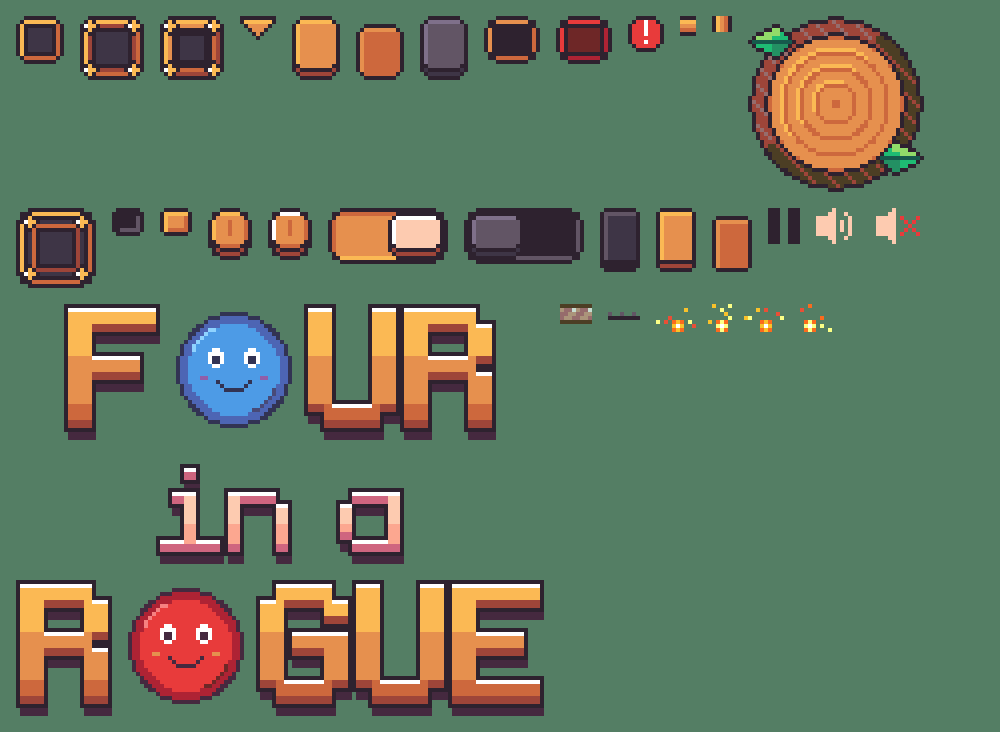
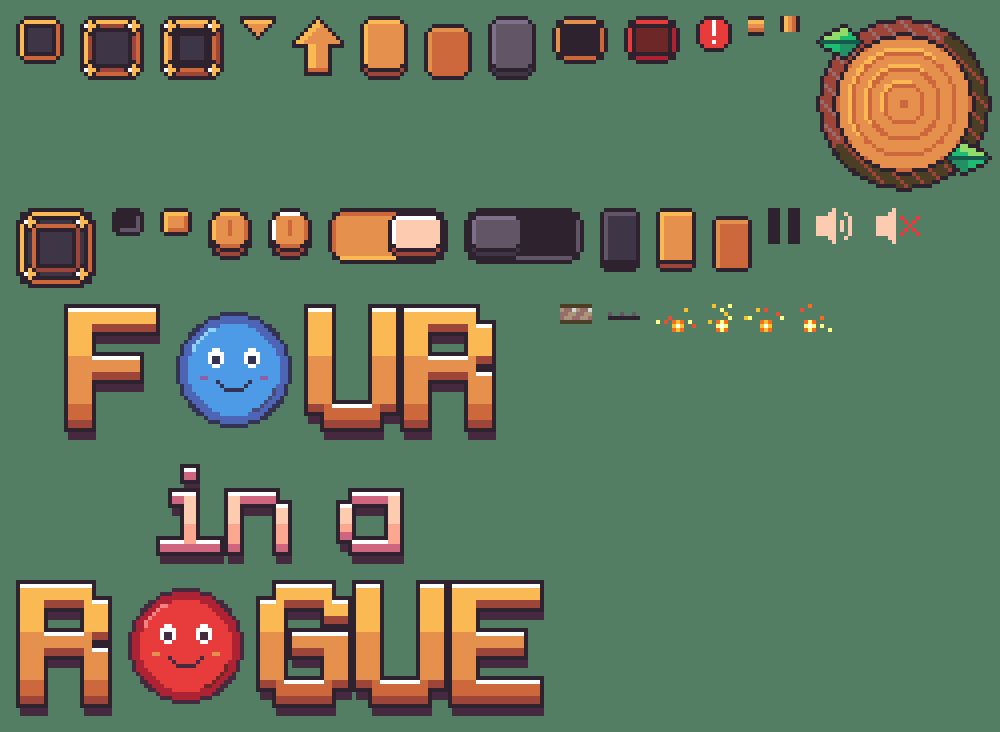
M6a playtest 1: coin flip heading + swipe arrow, slower transitions
- Coin flip: "Who goes first?" heading; animated swipe-up arrow under the
  coin (new assets/ui/swipe_arrow.png from make_ui_kit.py, drawn at 2x);
  toss arc capped below the heading
- Pacing (Sean): Strange Man outro 0.5 s fade + 1.0 s forest focus + 0.4 s
  beat; coin pops 0.6 s after the heading; banner 1.6 s; 0.5 s forest
  fades to the board (GameFlow.go_to sec override); release -> board 3.7 s
  (Sean chose ~4 s, supersedes the 3 s cap)

Changed region(s): [[0.279, 0.0, 0.992, 0.2705]]

diff --git a/art/ui/make_ui_kit.py b/art/ui/make_ui_kit.py
@@ -11,6 +11,7 @@ Outputs in assets/ui/ (9-slice margins = the `MARGINS` table below, in game px):
   window.png           pause / options / inspect window (panel + gold corner studs)
   dialogue.png         Strange Man dialogue box (chunky 2 px gold border)
   dialogue_arrow.png   blinking "next page" triangle
+  swipe_arrow.png      coin flip "swipe up" hint: chunky up arrow under the coin (M6a)
   button_normal.png    honey button with a 2 px lip; _pressed sinks 2 px; _disabled greyed
   toast.png            toast pill; toast_error.png + icon_error.png for errors (Column full, Hand full)
   divider_h.png / divider_v.png  thick section bars inside the one-block HUD
@@ -161,6 +162,28 @@ def dialogue_arrow():
             elif ch == "o":
                 px[x, y] = GOLD_HI if y < 2 else GOLD
     return img
+
+
+def swipe_arrow():
+    """Up arrow for the coin flip's swipe hint: honey, ink outline, lit left side."""
+    rows = [
+        "......#......",
+        ".....#h#.....",
+        "....#hho#....",
+        "...#hhooo#...",
+        "..#hhooooo#..",
+        ".#hhooooooo#.",
+        "#hhooooooooo#",
+        "####hhooo####",
+        "...#hhooo#...",
+        "...#hhooo#...",
+        "...#hhooo#...",
+        "...#hhooo#...",
+        "...#hhooo#...",
+        "...#lllll#...",
+        "...#######...",
+    ]
+    return bitmap(rows, {"#": INK0, "h": GOLD_HI, "o": GOLD, "l": GOLD_LO})
 
 
 def button(state, w=12, h=16):
@@ -543,6 +566,7 @@ def build():
         "window": window(),
         "dialogue": dialogue(),
         "dialogue_arrow": dialogue_arrow(),
+        "swipe_arrow": swipe_arrow(),
         "button_normal": button("normal"),
         "button_pressed": button("pressed"),
         "button_disabled": button("disabled"),

diff --git a/CLAUDE.md b/CLAUDE.md
@@ -72,7 +72,7 @@ Full acceptance list: **§Ship checklist** (A1–A10) and vault `vertical-slice-
 - Boot → Title (painted **Goob kingdom vista** with painted Goobs scattered in it + pixel logo; Sean 2026-11-20) → **Strange Man** (dialogue below; full body ~96×160 game px on an oval light pool, the **forest barely visible behind** (fades into focus when the round starts; Sean 2026-11-20); bottom dialogue box, blinking ▼, 5 pages = one per sentence; a blue and a red Vanilla Goob, **painted, not the game-piece sprites** (Sean 2026-11-20), pop in beside him on "This is a land of Goobs." — blue upright, red flat; Skip button) → forest fades in → **Coin flip** → board transitions in → Scenario. Scenes change with ~0.3 s fades through black (not affected by animation speed).
 - **Coin flip (Sean, 2026-11-13; supersedes "player picks heads/tails"):** no pick. The coin is a Vanilla Goob with a blue face and a red face in the screen centre; the player **swipes up anywhere** (starting on the coin = stronger toss; a tap = gentle toss); **50/50 random**, the landed colour goes first (blue = player). Stronger toss = more spins/arc in the same ~0.6 s. Options **Auto-flip coin** (default Off) flips ~0.5 s after the screen appears. After a draw the board fades out, the flip happens over the forest, the board returns.
 - **Tapping the start screen counts as Press Start** (a mouse click on desktop). Strange Man plays **after every Press Start** (old man in Goob-land clothes; he holds nothing, his two Goobs pop in beside him — Sean 2026-11-13/20, was "holding one Goob" 2026-11-02). No separate tutorial.
-- Coin winner moves first (`GameFlow.player_moves_first`). The whole coin flip lasts **≤ 3 s** (Sean, 2026-11-11); M6 animation: coin pops in, ~0.6 s toss, ~0.5 s rest, full-screen flash in the **winner's colour** (blue player / red opponent) + "goes first" banner ~1 s. **Scenario begins as soon as the flip is decided** (no extra start button).
+- Coin winner moves first (`GameFlow.player_moves_first`). Release → board on screen **~4 s** (Sean, 2026-11-20, so the player can register the result; was ≤ 3 s, 2026-11-11); M6 animation: **"Who goes first?"** heading at the top, then the coin pops in with an **animated arrow under it pointing up at it** (swipe hint; Sean 2026-11-20), ~0.6 s toss, ~0.5 s rest, full-screen flash in the **winner's colour** (blue player / red opponent) + "goes first" banner ~1.6 s, then a slower (0.5 s) forest fade to the board. Strange Man → coin flip is also unhurried: he fades out, the forest comes into focus (~1 s), a short beat, then the coin flip (Sean 2026-11-20). **Scenario begins as soon as the flip is decided** (no extra start button).
 - Win or lose → scoring sequence → **Title**. **Draw** (no four, or both sides four) → no scoring sequence, skip Strange Man (`GameFlow.replay_after_draw()` on `m3-turn-loop` goes straight to the coin flip), coin flip again, reshuffle decks, starting hand 2, empty board.
 
 **Strange Man (exact):**
@@ -292,7 +292,8 @@ Assets in `assets/strange_man/` (build: `python art/strange_man/make_strange_man
 - [x] `GameFlow` fades (`go_to(key, Transition.BLACK|FOREST|CUT)`, 0.3 s out + 0.3 s in): black for title ↔ play; **forest cover** for coin flip → board and the draw replay (board fades out leaving the forest); Strange Man fades his own forest in, then cuts
 - [x] Title: pixel logo over the painted Goob kingdom vista (its painted Goobs are the idle Goobs, per Decision-Log 2026-11-20), pulsing "Tap to start", Options (stub toast until M6b), Quit on desktop only; taps on buttons don't start
 - [x] Strange Man intro per §Flow: 5 pages, typing (40 chars/s), blinking ▼, Skip, blue + red painted Goobs pop in on page 2, forest fade-in
-- [x] **Coin flip rebuilt** per §Flow: swipe up / tap, 50/50, toss 0.6 s + rest 0.5 s, winner-colour flash + "You go first" / "Opponent goes first" banner 1 s, release → board 2.7 s; `GameFlow.auto_flip_coin` hook for M6b's option
+- [x] **Coin flip rebuilt** per §Flow: "Who goes first?" heading, swipe-up arrow under the coin (`assets/ui/swipe_arrow.png`, from `make_ui_kit.py`), swipe up / tap, 50/50, toss 0.6 s + rest 0.5 s, winner-colour flash + "You go first" / "Opponent goes first" banner 1.6 s, 0.5 s forest fades, release → board 3.7 s; `GameFlow.auto_flip_coin` hook for M6b's option
+- [x] Playtest 1 (Sean, 2026-11-20): "playtest works"; added the heading + arrow and slowed Strange Man → coin flip → scenario
 - [x] Sounds (`art/audio/make_flow_sounds.py`): press start, UI tap, page click, Goob pop, swipe, spin whirr (pitch rises with strength), coin clink, "goes first" sting
 - Pixel screens use `PixelStage` (`scripts/ui/pixel_stage.gd`): 270-wide game-pixel canvas at the board's whole-number scale, laid out 1:1 with the Art B/C mocks; vignette on title, Strange Man, coin flip, scenario
 
@@ -375,7 +376,7 @@ Everything else: implement from this file + existing scripts.
 | M3.6 | Same as M3.5 | 2D board; Goobs sit inside columns; even pixels at 1080×1920 and 1080×2340 |
 | M4 | Several turns, drag and tap | Draw/play limits; hand cap 5; cancel outside board; empty deck |
 | M5 | Play each special Goob | Effects match table; score on win line |
-| M6a | Title → Strange Man (+ Skip) → flip → scenario → draw replay | Fades, 5 pages, swipe flip ≤ 3 s |
+| M6a | Title → Strange Man (+ Skip) → flip → scenario → draw replay | Fades, 5 pages, swipe flip ~4 s to the board |
 | M6b | Pause mid-turn/animation; every option | Pause freezes everything; options persist; Skip game has no stuck input |
 | M6c | Let AI play | Blocks/wins when obvious; reactions + fuse fire right; no softlock |
 | M6d / M7 | A1–A10 on desktop, then Pixel 11 | Ship checklist passes |
